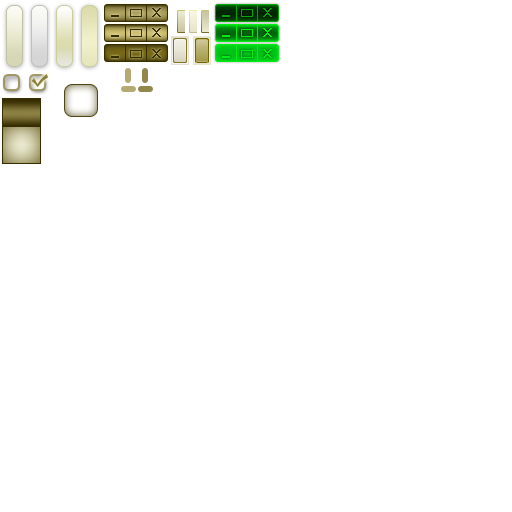
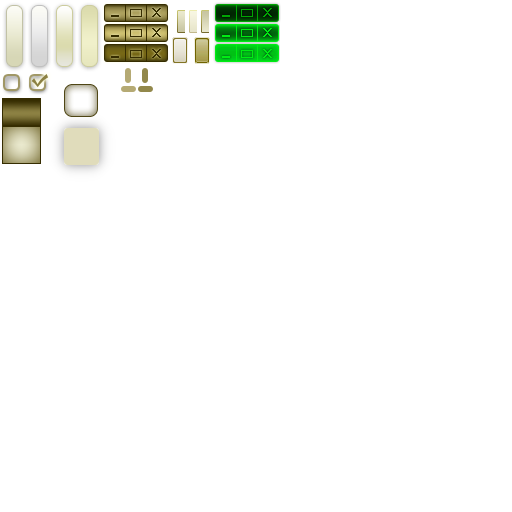
improve menu drawing detail, new art resource.

Changed region(s): [[0.0938, 0.2188, 0.2188, 0.3438], [0.375, 0.0625, 0.4062, 0.0938]]

diff --git a/MenuBar.cpp b/MenuBar.cpp
@@ -146,18 +146,21 @@ void PopupMenu::OnParentChanged(Sprite* old, Sprite* new_)
 
 bool PopupMenu::OnPaint(PaintEvent *ev)
 {
+	auto rcbg = this->GetClientRect();
+	rcbg.Inflate(7, 7);
+
 	float slide_h = 0.f;
 	if (m_state == sSlideIn) {
 		m_aniProgress += (TickCount() - m_lastTick) * AniDelta;
 		m_aniProgress = min(1.0f, m_aniProgress);
 		slide_h = -this->GetHeight() + this->GetHeight() * m_aniProgress;
-		ev->target->PushAxisAlignedClip(ltk::D2D1RectF(GetClientRect()),
+		ev->target->PushAxisAlignedClip(ltk::D2D1RectF(rcbg),
 			D2D1_ANTIALIAS_MODE_ALIASED);
 		ltk::TranslateTransform(ev->target, 0.f, slide_h);
 	}
 
 	m_background->Draw(GetWindow(), ev->target,
-		this->GetClientRect(), 
+		rcbg, 
 		AbstractBackground::Normal, 1.f);
 	float y = 0;
 	auto brush = GetWindow()->GetStockBrush();

diff --git a/SetupStyles.cpp b/SetupStyles.cpp
@@ -85,7 +85,7 @@ void SetupPixelStyle1()
     sm->AddBackgroundStyle("menu_bar_btn_bg", nine_in_one); // TODO change to menu_bar_btn_bg
 
 	nine_in_one = new NinePatchBackground;
-	nine_in_one->Normal().SetAtals(2, 126, 39, 38).SetMargin(18, 18, 18, 18);
+	nine_in_one->Normal().SetAtals(54, 118, 56, 56).SetMargin(20, 20, 20, 20);
 	nine_in_one->Hover() = nine_in_one->Normal();
 	nine_in_one->Pressed() = nine_in_one->Normal();
 	nine_in_one->Disable() = nine_in_one->Normal();
